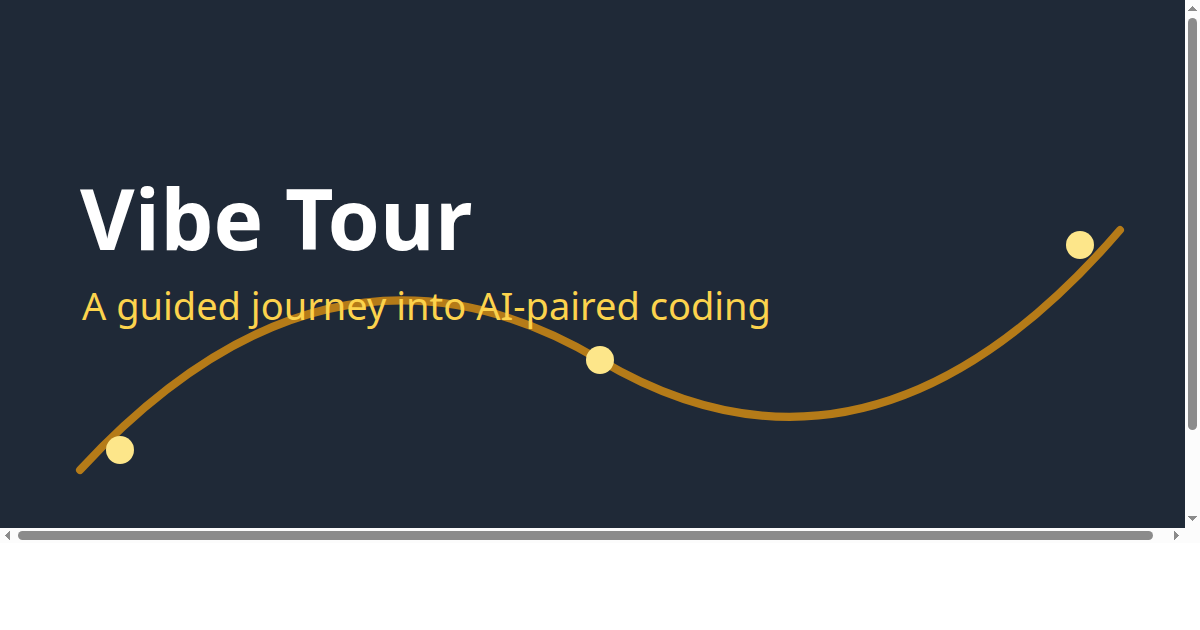
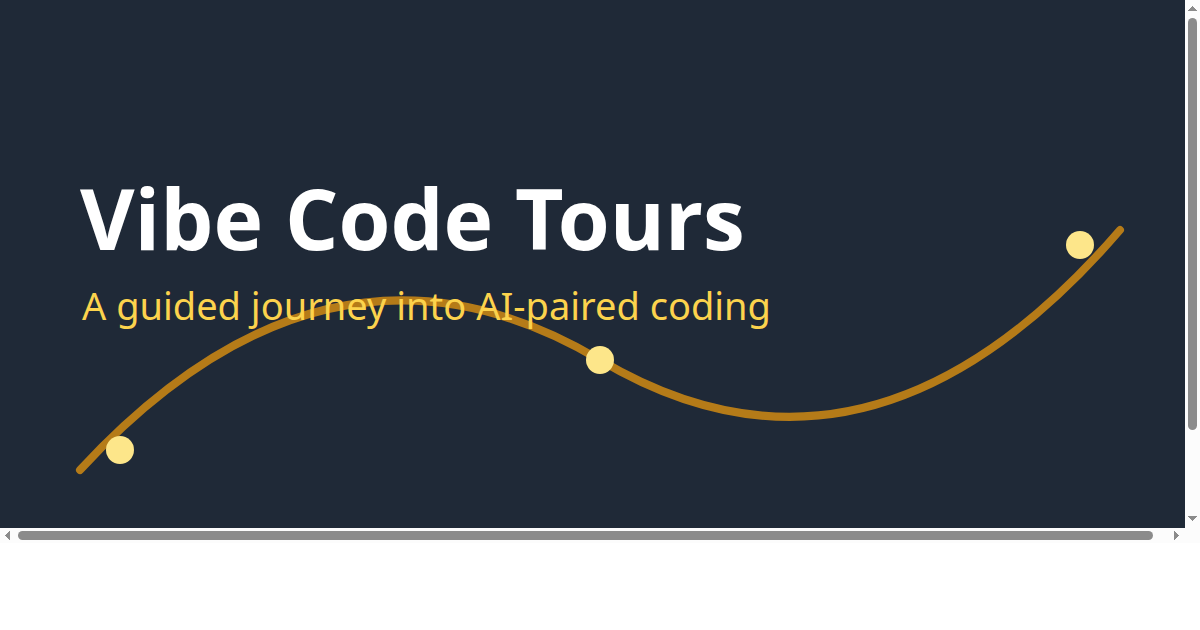
rebrand: Vibe Tour -> Vibe Code Tours (vibecode.tours)
Display name, org slug (vibe-code-tours), domain (vibecode.tours),
emails (@user.tours), OG image text + raster, astro site/base,
i18n en/my, legal pages, README, deploy workflow. Build green, 22 pages.

Changed region(s): [[0.2158, 0.3016, 0.6167, 0.4222]]

diff --git a/src/i18n/utils.ts b/src/i18n/utils.ts
@@ -14,7 +14,7 @@ export function t(locale: Locale): typeof en {
 
 /** Detect the active locale from a URL pathname (handles base path). */
 export function getLocale(pathname: string): Locale {
-  // Strip the configured base so /vibe-tour-site/my/... resolves correctly.
+  // Strip the configured base so /vibe-code-tours-site/my/... resolves correctly.
   const base = import.meta.env.BASE_URL.replace(/\/$/, '');
   let path = pathname;
   if (base && path.startsWith(base)) path = path.slice(base.length);
@@ -23,8 +23,8 @@ export function getLocale(pathname: string): Locale {
 
 /**
  * Build a locale-aware, base-prefixed URL.
- * localizedPath('/about', 'my') -> '/vibe-tour-site/my/about'
- * localizedPath('/about', 'en') -> '/vibe-tour-site/about'
+ * localizedPath('/about', 'my') -> '/vibe-code-tours-site/my/about'
+ * localizedPath('/about', 'en') -> '/vibe-code-tours-site/about'
  */
 export function localizedPath(path: string, locale: Locale): string {
   const base = import.meta.env.BASE_URL.replace(/\/$/, '');

diff --git a/README.md b/README.md
@@ -1,6 +1,6 @@
-# Vibe Tour — public site
+# Vibe Code Tours — public site
 
-Bilingual (English + Burmese) static site for **Vibe Tour**, a Myanmar AI
+Bilingual (English + Burmese) static site for **Vibe Code Tours**, a Myanmar AI
 coding tour. Tagline: *"A guided journey into AI-paired coding."*
 
 Built with **Astro 5 + Tailwind CSS**, zero client JS by default, output is a
@@ -10,7 +10,7 @@ static site that deploys free to GitHub Pages.
 
 ```bash
 npm install        # install dependencies
-npm run dev        # local dev server at http://localhost:4321/vibe-tour-site
+npm run dev        # local dev server at http://localhost:4321/vibe-code-tours-site
 npm run build      # static build into dist/
 npm run preview    # preview the built dist/ locally
 ```
@@ -50,23 +50,23 @@ Burmese, and delete the `[MY] ` prefix.
 
 ## Deploying to GitHub Pages (when the org exists)
 
-The repo is **local-only** for now (the `vibe-tour` GitHub org doesn't exist
+The repo is **local-only** for now (the `vibe-code-tours` GitHub org doesn't exist
 yet). When ready:
 
-1. Create the `vibe-tour` org + a repo named `vibe-tour-site`.
+1. Create the `vibe-code-tours` org + a repo named `vibe-code-tours-site`.
 2. Push this repo to `main`.
 3. In repo **Settings → Pages**, set **Source = GitHub Actions**.
 4. The included workflow [`.github/workflows/deploy.yml`](./.github/workflows/deploy.yml)
    builds and deploys on every push to `main`.
 
-The site will be served at `https://vibe-tour.github.io/vibe-tour-site/`.
+The site will be served at `https://vibe-code-tours.github.io/vibe-code-tours-site/`.
 
-### Switching to a custom domain (vibetour.dev)
+### Switching to a custom domain (vibecode.tours)
 
 When the domain is purchased and pointed at GitHub Pages:
 
-1. In `astro.config.mjs`, set `site: 'https://vibetour.dev'` and `base: '/'`.
-2. Add a `public/CNAME` file containing `vibetour.dev`.
+1. In `astro.config.mjs`, set `site: 'https://vibecode.tours'` and `base: '/'`.
+2. Add a `public/CNAME` file containing `vibecode.tours`.
 3. Rebuild. All internal links and the sitemap adapt automatically (they read
    `BASE_URL`).
 